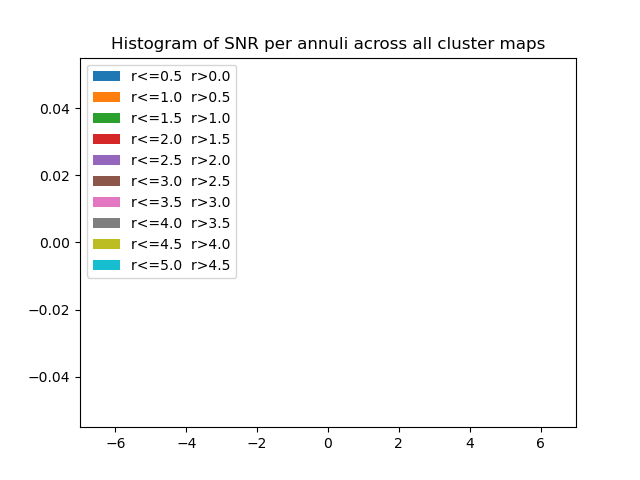
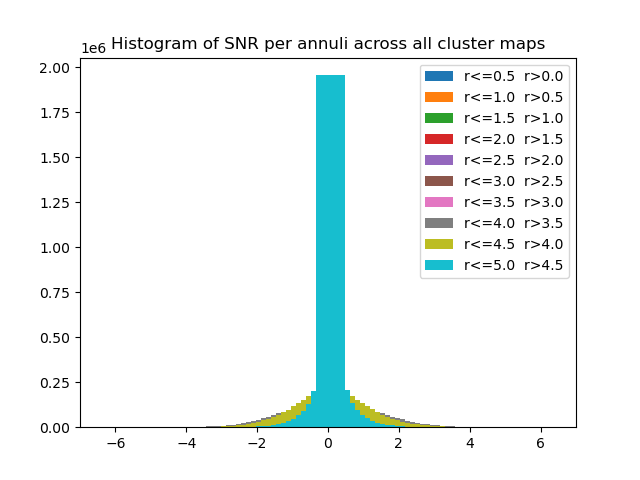
remade snr hist

diff --git a/snr_all.py b/snr_all.py
@@ -58,7 +58,7 @@ for k in range(len(reduc_list)):
 		x_mesh,y_mesh = np.meshgrid(x_arr,y_arr)
 		r = np.sqrt(x_mesh**2+y_mesh**2)
 		for j in range(len(min_rad)):
-			n = img[np.logical_and((r<=max_rad[j]),(r>min_rad[j]*pixel_per_arcmin))]
+			n = img[np.logical_and((r<=max_rad[j]*pixel_per_arcmin),(r>min_rad[j]*pixel_per_arcmin))]
 			H[j] = H[j] + np.histogram(n,bins=b)[0]
 			N_pix[j] = N_pix[j] + len(n)
 		textstr = '\n'.join((
@@ -74,7 +74,8 @@ for k in range(len(reduc_list)):
 		plt.savefig("snr_histogram/"+cluster+"reduc_"+code[k]+".png")
 		plt.close(fig)
 
- 
+
+np.savetxt("histo_data.csv",H) 
 fig = plt.figure()
 for i in range(len(min_rad)-4):
 	p = opt.minimize(minimize,[np.max(H[i]),0,1],args=(b[1:],H[i])).x
